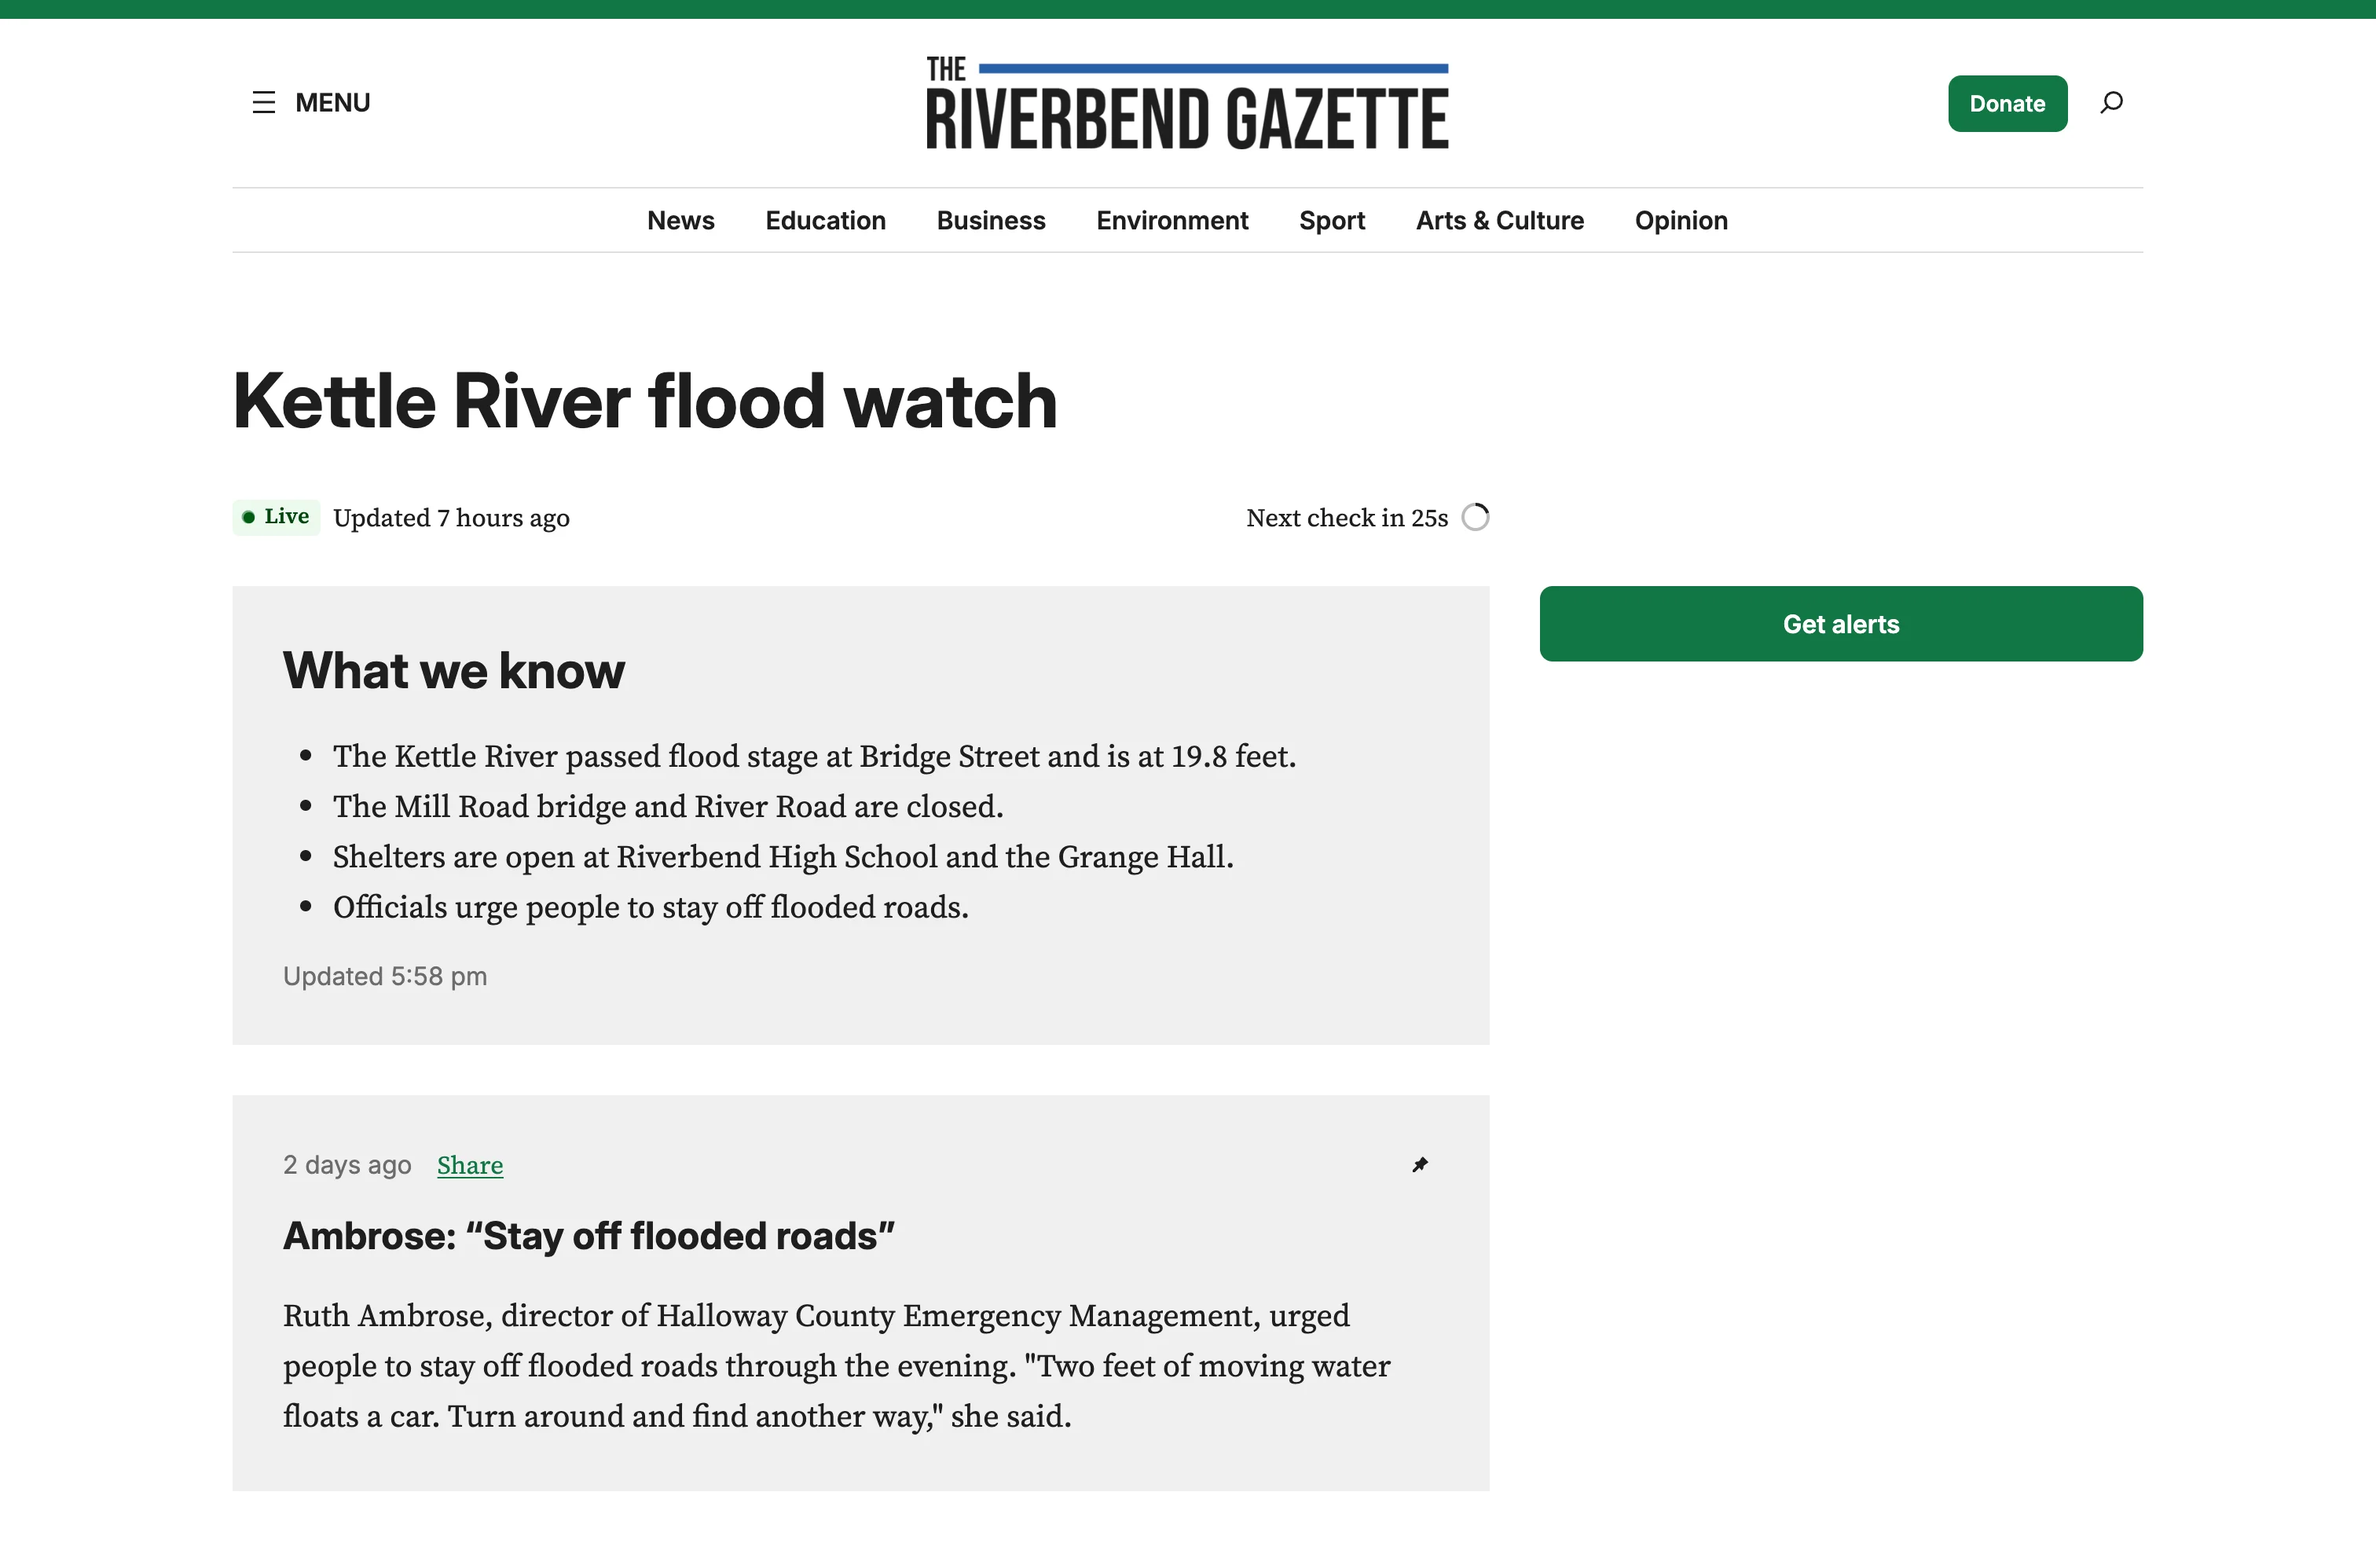
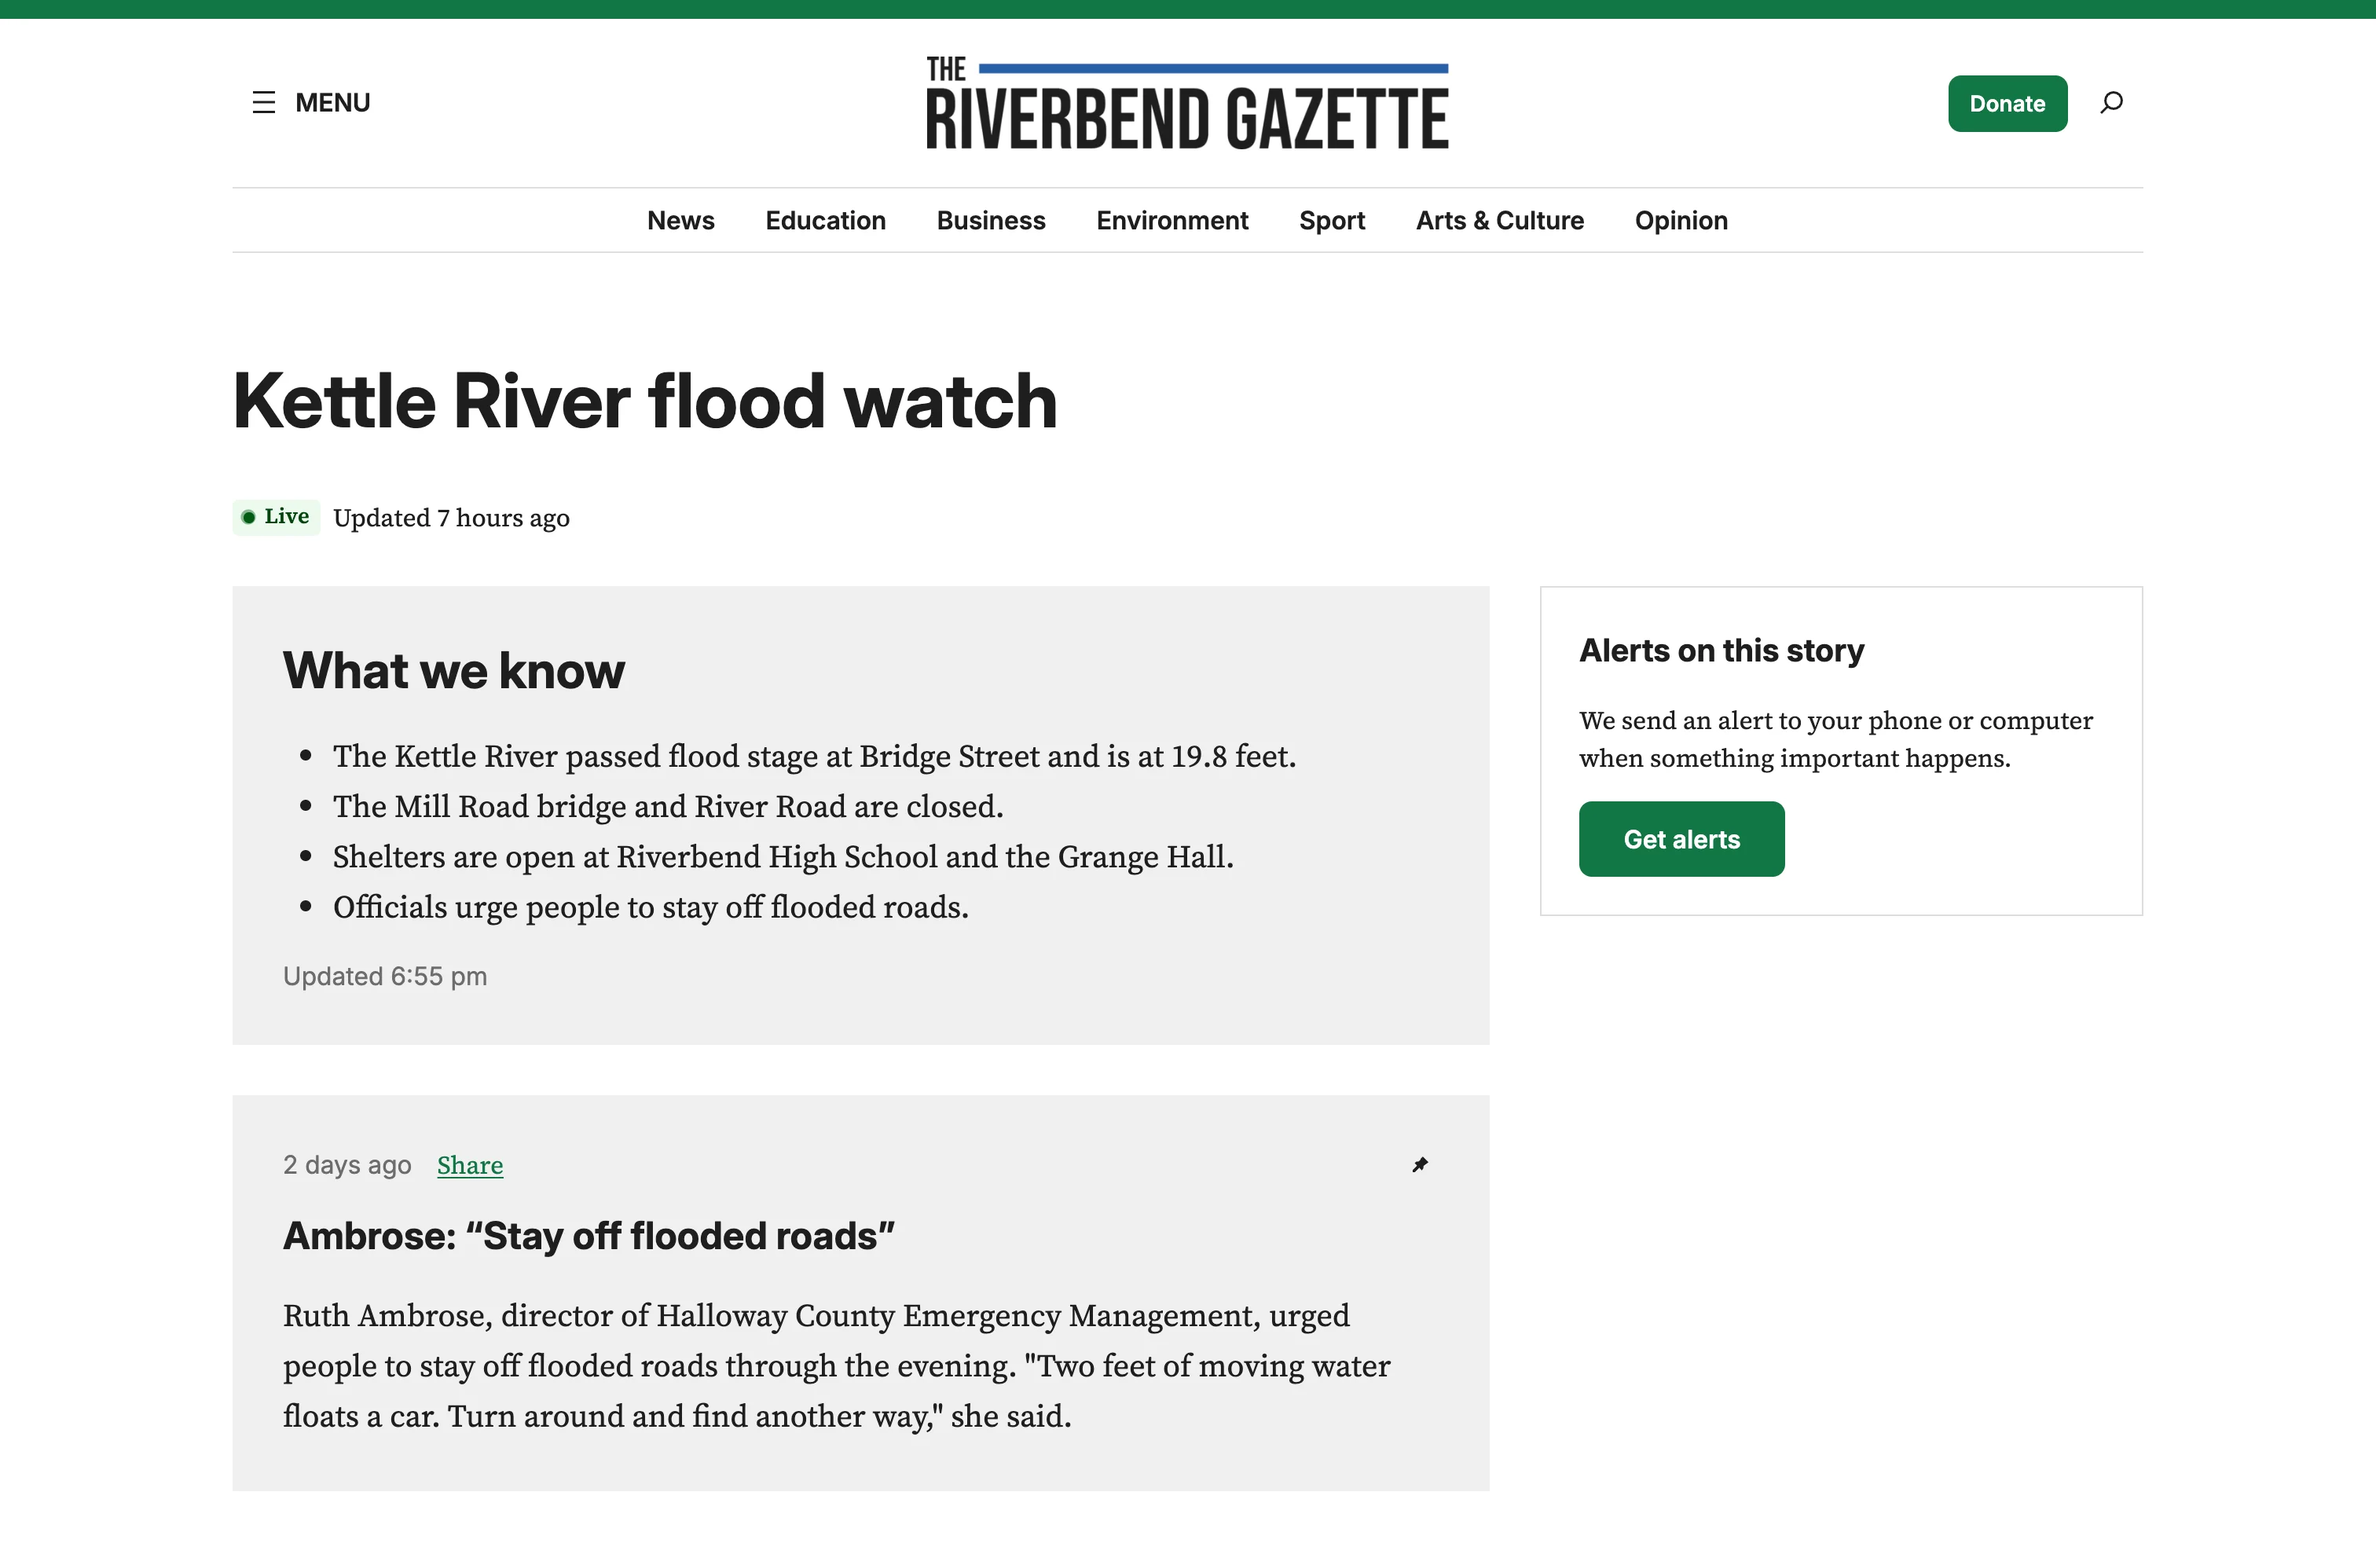
docs(site): retake the side column page screenshots

Changed region(s): [[0.6217, 0.3727, 0.9015, 0.4348], [0.6528, 0.4659, 0.8704, 0.5901], [0.5284, 0.3106, 0.6217, 0.3416]]

diff --git a/site/screenshots/SHOTS.md b/site/screenshots/SHOTS.md
@@ -93,7 +93,7 @@ Setup and cleanup steps run with WP-CLI on the screenshot site. After any shot w
 | `guides/page-patterns-1.webp` | The block inserter's Patterns tab with the Rolling Coverage - Pages category open | `npm run shot -- guides/page-patterns-1 --site <site> --now --url "wp-admin/edit.php?post_type=page&post_status=draft" --click 'a.row-title >> text="Kettle River flood"' --click 'button.editor-document-tools__inserter-toggle' --click 'button[role="tab"]:has-text("Patterns")' --click 'text=Rolling Coverage - Pages'` | None |
 | `guides/page-patterns-2.webp` | The Kettle River flood, hour by hour page, built from the Live page pattern: the Live badge, a sentence and the feed in the Clock layout | `npm run shot -- guides/page-patterns-2 --site <site> --now --url kettle-river-flood-hour-by-hour/ --logged-out` | None |
 | `guides/page-patterns-3.webp` | The Kettle River flood: the latest updates page, built from the Live page, latest first pattern: the newest entry above the All updates heading | `npm run shot -- guides/page-patterns-3 --site <site> --now --url kettle-river-flood-latest-updates/ --logged-out` | None |
-| `guides/page-patterns-4.webp` | The Kettle River flood watch page, built from the Live page with side column pattern on the Page (Wide) template: the badge and timer in a row above the feed on the left, the Get alerts button on the right | `npm run shot -- guides/page-patterns-4 --site <site> --now --url kettle-river-flood-watch/ --logged-out` | None |
+| `guides/page-patterns-4.webp` | The Kettle River flood watch page, built from the Live page with side column pattern on the Page (Wide) template: the badge above the columns, the feed on the left and the alerts box on the right | `npm run shot -- guides/page-patterns-4 --site <site> --now --url kettle-river-flood-watch/ --logged-out` | None |
 | `guides/page-patterns-5.webp` | The Riverbend FC v Toledo Beacon: match center page, built from the Match: scoreboard beside the feed pattern on the Page (Wide) template: the feed on the left, the Scoreboard on the right | `npm run shot -- guides/page-patterns-5 --site <site> --now --url riverbend-fc-v-toledo-beacon-match-center/ --logged-out` | None |
 | `guides/page-patterns-6.webp` | The Riverbend FC v Toledo Beacon: full time page, built from the Match: centered scoreline pattern: the large score above the feed | `npm run shot -- guides/page-patterns-6 --site <site> --now --url riverbend-fc-v-toledo-beacon-full-time/ --logged-out` | None |
 | `guides/page-patterns-7.webp` | The Kettle River tops flood stage in Riverbend page, built from the Breaking news pattern: the latest update in a bar above the article text | `npm run shot -- guides/page-patterns-7 --site <site> --now --url kettle-river-tops-flood-stage/ --logged-out` | None |
